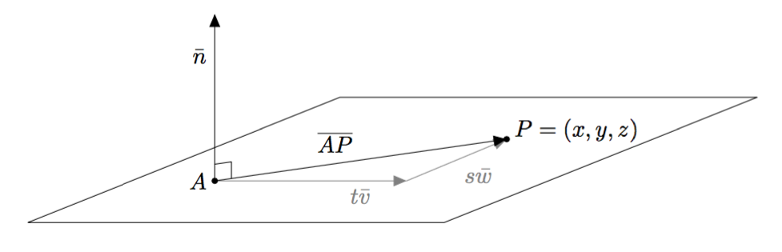
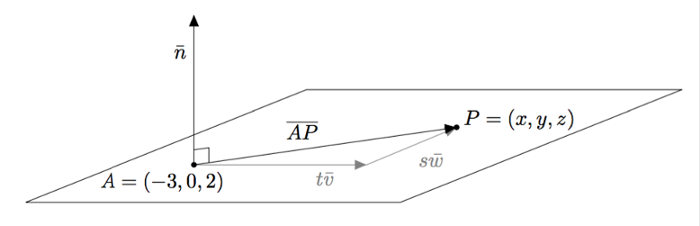
Täydennys

Changed region(s): [[0.03, 0.0619, 0.99, 0.9292]]

diff --git a/kurssit/maa4/suoratJaTasot/index.html b/kurssit/maa4/suoratJaTasot/index.html
@@ -1144,7 +1144,9 @@ topnav: maa4
                     </p>
 
                     <p>
-                        Tutkimalla alla olevaa kuvaa voidaan havaita, että piste $P = (x,y,z)$ on tasossa $T$, jos ja vain jos vektori $\pv{AP}$ on kohtisuorassa tason normaalivektoria $\vn$ vastaan. Pistetulon avulla sama asia voidaan ilmaista sanomalla, että piste $P = (x,y,z)$ on tasossa $T$, jos ja vain jos
+                        Tarkastellaan edelleen tasoa $T$, jonka vektorimuotoinen parametriesitys on 
+                        $$\pv{OP} = -3\vi + 2\vk + s(3\vi + \vk) + t(4\vi - \vj).$$
+                        Tutkimalla alla olevaa kuvaa voidaan havaita, että piste $P = (x,y,z)$ on tasossa $T$, jos ja vain jos vektori $\pv{AP}$ on kohtisuorassa tason normaalivektoria $\vn = \vi + 4\vj-3\vk$ vastaan. Pistetulon avulla sama asia voidaan ilmaista sanomalla, että piste $P = (x,y,z)$ on tasossa $T$, jos ja vain jos
                         $$\pv{AP} \cdot \vn = 0,$$
                         missä $\vn$ on tason $T$ normaalivektori.
                     </p>
